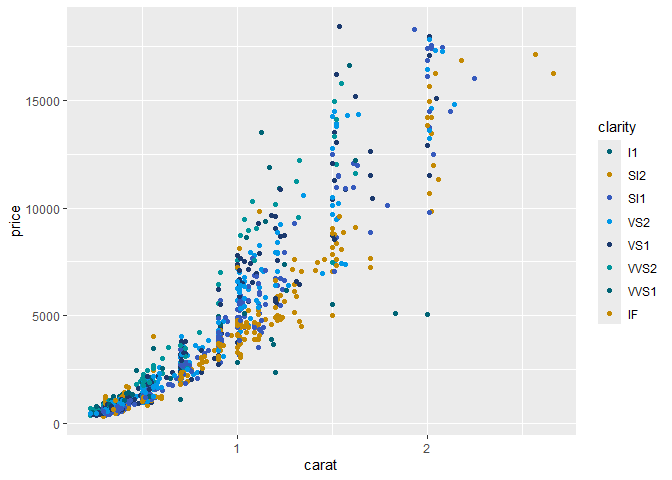
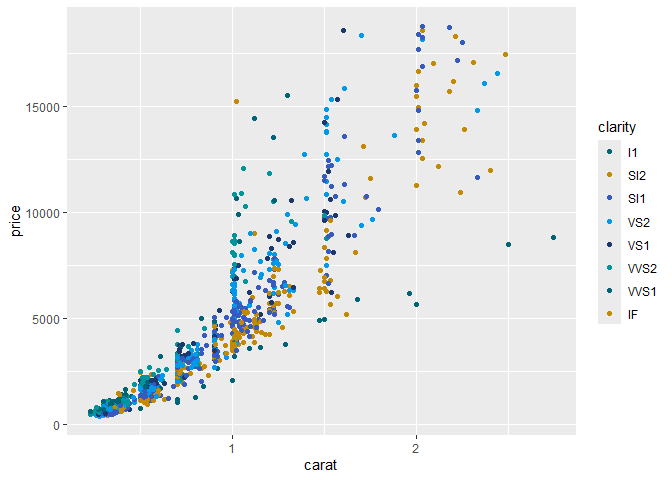
the_title_blank subtitle

diff --git a/README.md b/README.md
@@ -206,8 +206,9 @@ The package includes a few small helpers to simplify adjusting common
   names).
 - `the_legend_bot()` — move the legend to the bottom.
 - `the_title_blank()` — blank out selected titles (axis titles, plot
-  title, legend title, caption). You can specify which elements to blank
-  with short codes, e.g. `"xyt"` for x-axis, y-axis and plot title.
+  title, subtitle, legend title, caption). You can specify which
+  elements to blank with short codes, e.g. `"xyt"` for x-axis, y-axis
+  and plot title.
 
 ``` r
 library(ggplot2)
